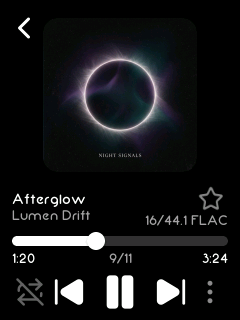
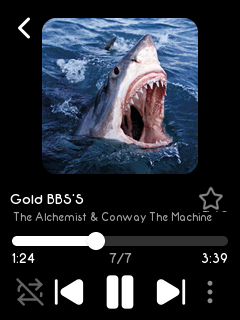
Update OLED now-playing preview artwork

diff --git a/README.md b/README.md
@@ -165,8 +165,8 @@ Showcase of **OLED** appearance: true black backgrounds with white as the accent
       <br><sub><b>Settings</b></sub>
     </td>
     <td align="center">
-      <a href="screenshots/oled/now-playing.png"><img src="screenshots/oled/now-playing.png" width="180" alt="OLED now playing"></a>
-      <br><sub><b>Now Playing</b></sub>
+      <a href="screenshots/oled/now-playing.png"><img src="screenshots/oled/now-playing.png" width="180" alt="OLED now playing: Gold BBS'S by The Alchemist &amp; Conway The Machine"></a>
+      <br><sub><b>Now Playing — Gold BBS'S (LULU)</b></sub>
     </td>
     <td align="center">
       <a href="screenshots/oled/file-browser.png"><img src="screenshots/oled/file-browser.png" width="180" alt="OLED file browser"></a>
